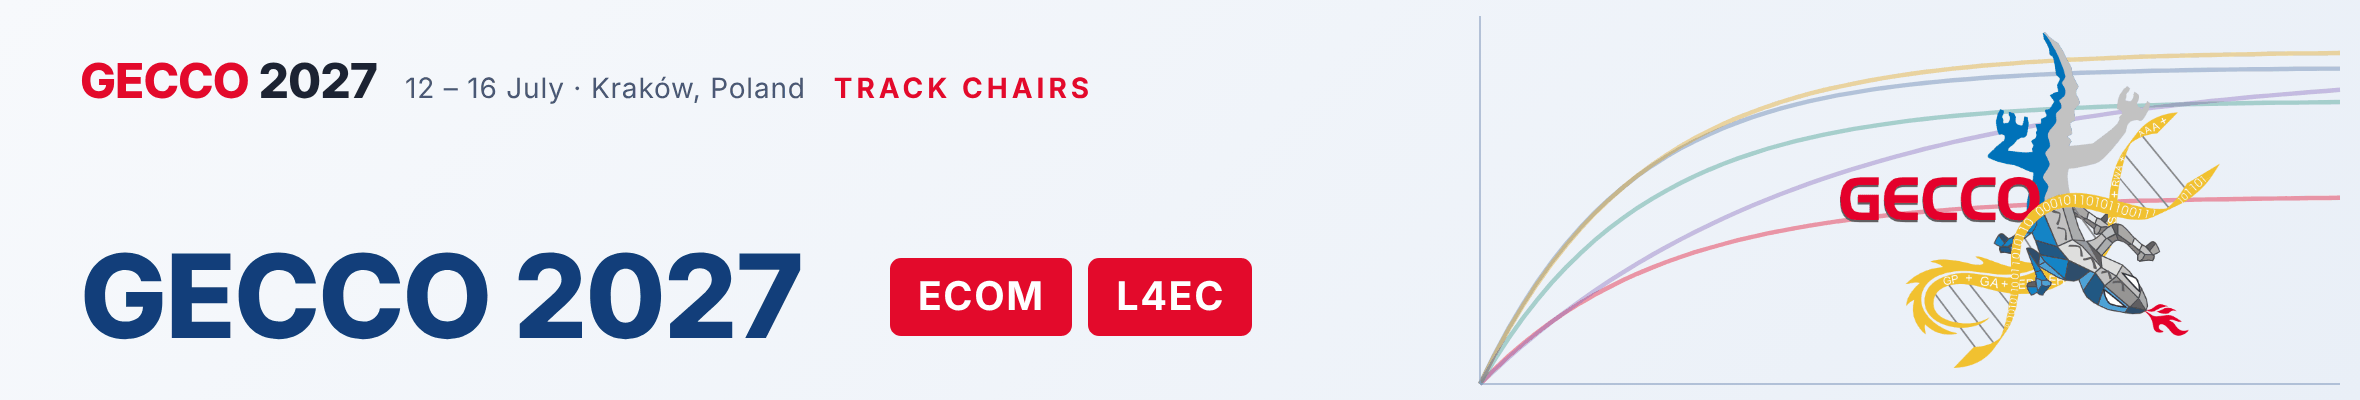
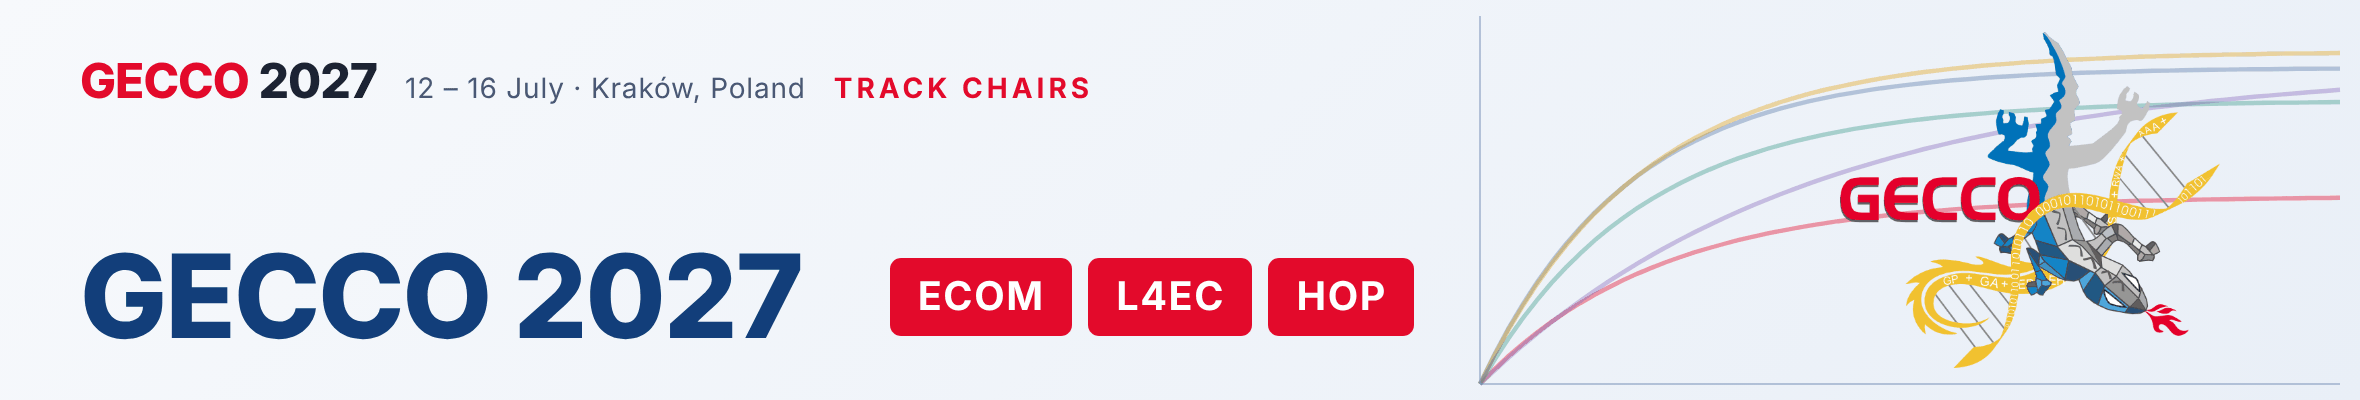
Add HOP track to GECCO 2027 and AABOH 2027 workshop (pending)
- GECCO 2027: Anna Kononova chairs Hot Off the Press; added to the
  page, organisers and the banner tags
- New AABOH 2027 event (7th edition, proposed, pending acceptance)
  with banners, based on the 2026 entry

Claude-Session: https://claude.ai/code/session_01NNYjCU1kXVhSLjjpYDokY5

Changed region(s): [[0.5258, 0.63, 0.6186, 0.84]]

diff --git a/img/events/src/banners.js b/img/events/src/banners.js
@@ -39,11 +39,12 @@ var BANNERS = {
     llmfwec2027: {conf: 'gecco2027', kicker: '3rd Workshop', title: 'LLMfwEC', sub: 'Large Language Models for and with\nEvolutionary Computation', motif: 'helix', seed: 11, note: GENAI4EC},
     aaboh2025: {conf: 'gecco2025', kicker: '5th Workshop', title: 'AABOH', sub: 'Analysing Algorithmic Behaviour\nof Optimisation Heuristics', motif: 'curves'},
     aaboh2026: {conf: 'gecco2026', kicker: '6th Workshop', title: 'AABOH', sub: 'Analysing Algorithmic Behaviour\nof Optimisation Heuristics', motif: 'curves', seed: 9},
+    aaboh2027: {conf: 'gecco2027', kicker: '7th Workshop', title: 'AABOH', sub: 'Analysing Algorithmic Behaviour\nof Optimisation Heuristics', motif: 'curves', seed: 17},
     'benchmarking-gecco2025': {conf: 'gecco2025', kicker: 'Tutorial', title: 'Benchmarking Optimization Algorithms', sub: 'Single- and multi-objective: how to make\nyour experimental data more valuable', subWide: '', motif: 'curves', seed: 4},
     'sb-gecco2025': {conf: 'gecco2025', kicker: 'Tutorial', title: 'Structural Bias', sub: 'in Iterative Optimisation Heuristics', motif: 'scatter'},
     'llmheuristics-gecco2026': {conf: 'gecco2026', kicker: 'Tutorial', title: 'LLMs for Metaheuristic Design', sub: 'Large Language Models and\nEvolutionary Computation', subWide: '', motif: 'tree'},
     gecco2027: {conf: 'gecco2027', kicker: 'Track chairs', title: 'GECCO 2027', sub: 'Genetic and Evolutionary\nComputation Conference', subWide: '', motif: 'curves', seed: 13,
-      tags: [tag('ECOM', 30), tag('L4EC', 30)]},
+      tags: [tag('ECOM', 30), tag('L4EC', 30), tag('HOP', 30)]},
     'llmmeta-gecco2027': {conf: 'gecco2027', kicker: 'Tutorial', title: 'LLMs for Metaheuristic Design', sub: 'From Evolutionary Program Search to Agentic\nAlgorithm Discovery: Tools, Benchmarking,\nExplainability and Open Challenges', subWide: '', motif: 'tree', seed: 5, note: '<b>EASE</b> · <b>LLaMEA</b> · <b>BLADE</b>'},
 
     // IEEE CAI, WCCI, CEC

diff --git a/_events/AABOH2027.md b/_events/AABOH2027.md
@@ -1,0 +1,62 @@
+---
+title: "AABOH Workshop at GECCO 2027"
+status: active
+type: workshop
+pending: true
+
+notitle: false
+
+description: |
+  Analysing algorithmic behaviour of optimisation heuristics, 7th edition @GECCO 2027
+
+people:
+  - kononova
+  - stein
+  - back
+  - zaharie
+  - caraffini
+
+layout: event
+eventdate: 2027-07-12
+enddate: 2027-07-16
+location: "Kraków, Poland"
+venue: "GECCO 2027"
+image: /img/events/aaboh2027.png
+largeimage: /img/events/aaboh2027-wide.png
+header:
+    og_image: events/aaboh2027.png
+links:
+  website: https://aaboh.nl/
+dates_note: "Submission deadlines will be announced once the workshop is accepted."
+last-updated: 2026-11-24
+---
+
+We have proposed the **7th AABOH Workshop** at [GECCO 2027](https://gecco-2027.sigevo.org/), 12–16 July 2027 in Kraków, Poland. The workshop explores the analysis of **algorithm behaviour** of **optimisation heuristics**.
+
+## Analysing algorithmic behaviour of optimisation heuristics
+
+Optimisation and Machine Learning tools are among the most used tools in the modern world with their omnipresent computing devices. Yet, while both these tools rely on search processes (search for a solution or a model able to produce solutions), their dynamics have not been fully understood. This scarcity of knowledge on the inner workings of heuristic methods is largely attributed to the complexity of the underlying processes, which cannot be subjected to a complete theoretical analysis. However, this is also partially due to a superficial experimental setup and, therefore, a superficial interpretation of numerical results. In fact, researchers and practitioners typically only look at the final result produced by these methods. Meanwhile, a great deal of information is wasted in the run. In light of such considerations, it is now becoming more evident that such information can be useful and that some design principles should be defined that allow for online or offline analysis of the processes taking place in the population and their dynamics.
+
+Hence, with this workshop, we call for both theoretical and empirical achievements identifying the desired features of optimisation and machine learning algorithms, quantifying the importance of such features, spotting the presence of intrinsic structural biases and other undesired algorithmic flaws, studying the transitions in algorithmic behaviour in terms of convergence, any-time behaviour, traditional and alternative performance measures, robustness, exploration vs exploitation balance, diversity, algorithmic complexity, etc., with the goal of gathering the most recent advances to fill the aforementioned knowledge gap and disseminate the current state-of-the-art within the research community.
+
+### Topics of Interest
+
+We encourage submissions exploiting carefully designed experiments or data-heavy approaches that can come to help in analysing primary algorithmic behaviours and modelling internal dynamics causing them. As an indication, some (but not all) relevant topics of interests are reported in the list below:
+
+- global search vs. local search,
+- exploration vs. exploitation,
+- time and space complexity,
+- premature convergence and stagnation,
+- structural bias,
+- genotypic or phenotypic diversity,
+- robustness of the produced solution,
+- secondary benchmarking,
+- anytime performance.
+
+If the workshop is accepted, all accepted papers will be included in the ACM Proceedings of the Genetic and Evolutionary Computation Conference (GECCO '27) Companion Volume.
+
+### Previous Editions
+
+- [GECCO 2026](/events/AABOH2026y/)
+- [GECCO 2025](https://aaboh.nl/gecco-25-workshop/)
+- [GECCO 2024](https://aaboh.nl/gecco-24-workshop/)

diff --git a/_events/gecco2027.md b/_events/gecco2027.md
@@ -1,16 +1,17 @@
 ---
-title: "GECCO 2027: ECOM and L4EC tracks"
+title: "GECCO 2027: ECOM, L4EC and HOP tracks"
 status: active
 type: conference
 
 notitle: false
 
 description: |
-  Genetic and Evolutionary Computation Conference 2027, where we chair the ECOM and L4EC tracks
+  Genetic and Evolutionary Computation Conference 2027, where we chair the ECOM, L4EC and Hot Off the Press tracks
 
 people:
   - stein
   - raponi
+  - kononova
 
 layout: event
 eventdate: 2027-07-12
@@ -29,10 +30,10 @@ dates:
   - {label: "Camera ready", date: 2027-04-09}
   - {label: "Presenter mandatory registration", date: 2027-05-10}
   - {label: "Conference", date: 2027-07-12}
-last-updated: 2026-11-23
+last-updated: 2026-11-24
 ---
 
-We are happy to be part of **[GECCO 2027](https://gecco-2027.sigevo.org/)**, the Genetic and Evolutionary Computation Conference, held 12–16 July 2027 in Kraków, Poland. Members of the Natural Computing Cluster chair two of its tracks: **ECOM** and **L4EC**.
+We are happy to be part of **[GECCO 2027](https://gecco-2027.sigevo.org/)**, the Genetic and Evolutionary Computation Conference, held 12–16 July 2027 in Kraków, Poland. Members of the Natural Computing Cluster chair three of its tracks: **ECOM**, **L4EC** and **Hot Off the Press (HOP)**.
 
 ## Tracks we chair
 
@@ -68,6 +69,12 @@ Topics include:
 - Surrogate-based and surrogate-assisted optimisation of expensive fitness functions, including multi-fidelity approaches
 - Feature-based characterisation of problems, such as exploratory and fitness landscape analysis
 
+### Hot Off the Press (HOP)
+
+Track chair: **Anna V. Kononova** (LIACS, Leiden University).
+
+The Hot Off the Press track gives authors of recent work in evolutionary computation that has already been published or accepted at another venue, such as a journal or another conference, the chance to present it to the GECCO audience. It is the one GECCO track that accepts work already published elsewhere, so it is a good way to bring strong results from journals and other communities to GECCO.
+
 ## Also at GECCO 2027
 
-We have also proposed the [LLMfwEC workshop](/events/LLMfwEC2027/) and the [LLMs for Metaheuristic Design tutorial](/events/llmmetaGECCO2027/) at GECCO 2027.
+We have also proposed the [LLMfwEC workshop](/events/LLMfwEC2027/), the [AABOH workshop](/events/AABOH2027/) and the [LLMs for Metaheuristic Design tutorial](/events/llmmetaGECCO2027/) at GECCO 2027.
